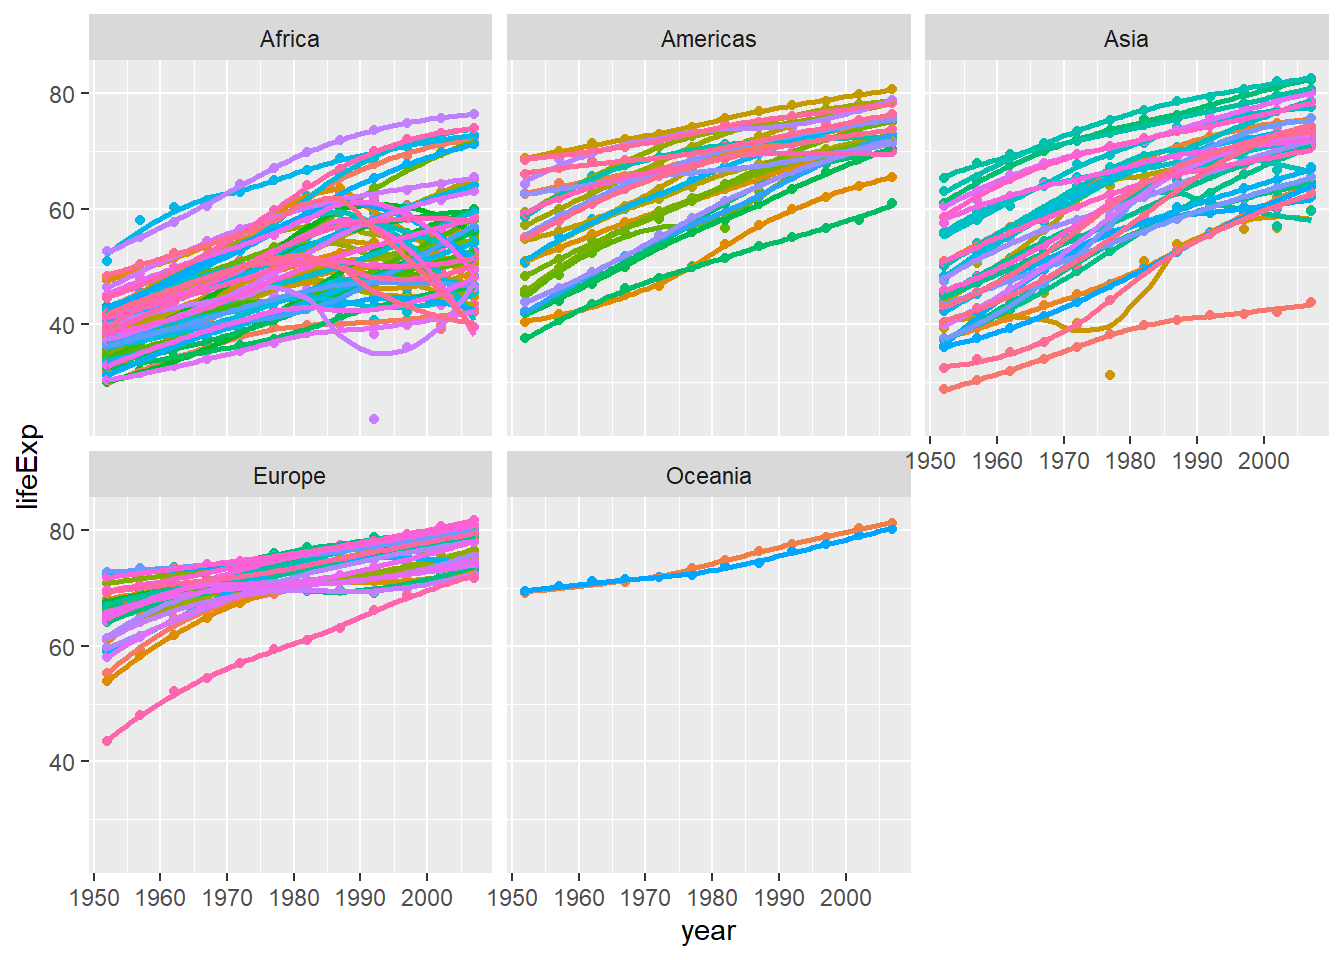
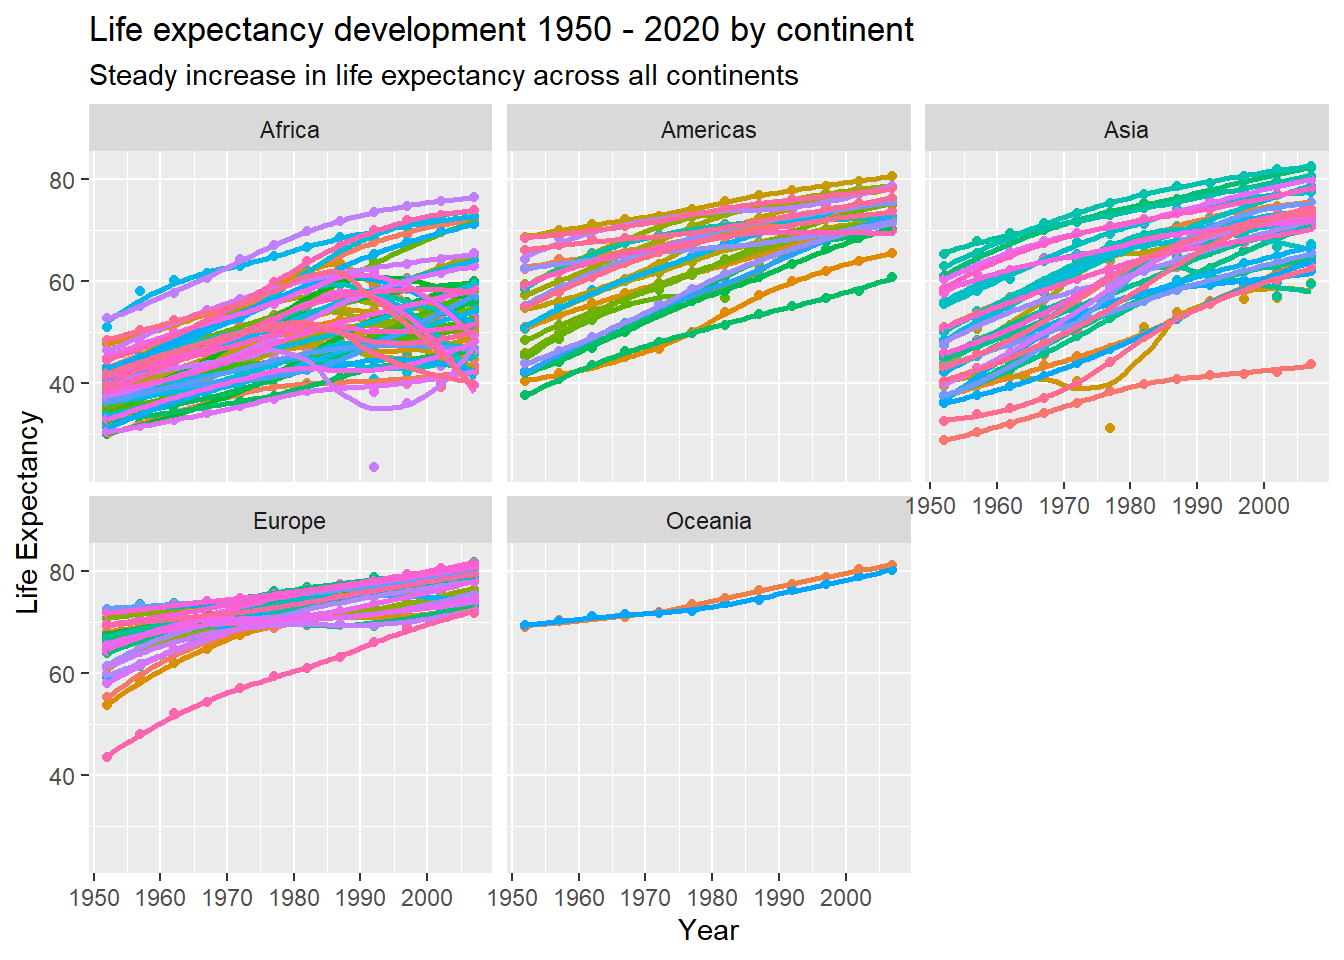
13-Oct-2020

diff --git a/public/blogs/blog15/index.html b/public/blogs/blog15/index.html
@@ -122,9 +122,9 @@ continent_data &lt;- gapminder %&gt;%
 <pre class="r"><code>  plot2 &lt;- ggplot(data = country_data, mapping = aes(x = year, y = lifeExp))+
   geom_point() +
   geom_smooth(se = FALSE) +
-  labs(subtitle = &quot;Steady increse in life expectancy since the 1950s&quot;,
-       title = &quot;Life expectancy development in Germany 1950 - 2020&quot;,
-        sx = &quot;Year&quot;,
+  labs(title = &quot;Steady increse in life expectancy since the 1950s&quot;,
+       subtitle = &quot;Life expectancy development in Germany 1950 - 2020&quot;,
+        x = &quot;Year&quot;,
         y = &quot;Life Expectancy&quot;) +
 NULL
 
@@ -135,12 +135,20 @@ print(plot2)</code></pre>
 <pre class="r"><code>ggplot(data =  continent_data, mapping = aes(x =  year, y =  lifeExp, colour= country))+
     geom_point() + 
     geom_smooth(se = FALSE) +
+    labs(title = &quot;Life expectancy development in EUrope 1950 - 2020 by country&quot;,
+         subtitle = &quot;Steady increase in life expectancy across all continents&quot;,
+         x = &quot;Year&quot;,
+         y = &quot;Life Expectancy&quot;)+
     NULL</code></pre>
 <pre><code>## `geom_smooth()` using method = &#39;loess&#39; and formula &#39;y ~ x&#39;</code></pre>
 <p><img src="/blogs/blog15_files/figure-html/lifeExp_one_continent-1.png" width="672" /></p>
 <pre class="r"><code> ggplot(data = gapminder , mapping = aes(x = year  , y =  lifeExp, colour= country))+
     geom_point() + 
     geom_smooth(se = FALSE) +
+    labs(title = &quot;Life expectancy development 1950 - 2020 by continent&quot;,
+         subtitle = &quot;Steady increase in life expectancy across all continents&quot;,
+         x = &quot;Year&quot;,
+         y = &quot;Life Expectancy&quot;)+
     facet_wrap(~continent) +
     theme(legend.position=&quot;none&quot;) + 
     NULL</code></pre>

diff --git a/content/blogs/blog15.html b/content/blogs/blog15.html
@@ -46,9 +46,9 @@ continent_data &lt;- gapminder %&gt;%
 <pre class="r"><code>  plot2 &lt;- ggplot(data = country_data, mapping = aes(x = year, y = lifeExp))+
   geom_point() +
   geom_smooth(se = FALSE) +
-  labs(subtitle = &quot;Steady increse in life expectancy since the 1950s&quot;,
-       title = &quot;Life expectancy development in Germany 1950 - 2020&quot;,
-        sx = &quot;Year&quot;,
+  labs(title = &quot;Steady increse in life expectancy since the 1950s&quot;,
+       subtitle = &quot;Life expectancy development in Germany 1950 - 2020&quot;,
+        x = &quot;Year&quot;,
         y = &quot;Life Expectancy&quot;) +
 NULL
 
@@ -59,12 +59,20 @@ print(plot2)</code></pre>
 <pre class="r"><code>ggplot(data =  continent_data, mapping = aes(x =  year, y =  lifeExp, colour= country))+
     geom_point() + 
     geom_smooth(se = FALSE) +
+    labs(title = &quot;Life expectancy development in EUrope 1950 - 2020 by country&quot;,
+         subtitle = &quot;Steady increase in life expectancy across all continents&quot;,
+         x = &quot;Year&quot;,
+         y = &quot;Life Expectancy&quot;)+
     NULL</code></pre>
 <pre><code>## `geom_smooth()` using method = &#39;loess&#39; and formula &#39;y ~ x&#39;</code></pre>
 <p><img src="/blogs/blog15_files/figure-html/lifeExp_one_continent-1.png" width="672" /></p>
 <pre class="r"><code> ggplot(data = gapminder , mapping = aes(x = year  , y =  lifeExp, colour= country))+
     geom_point() + 
     geom_smooth(se = FALSE) +
+    labs(title = &quot;Life expectancy development 1950 - 2020 by continent&quot;,
+         subtitle = &quot;Steady increase in life expectancy across all continents&quot;,
+         x = &quot;Year&quot;,
+         y = &quot;Life Expectancy&quot;)+
     facet_wrap(~continent) +
     theme(legend.position=&quot;none&quot;) + 
     NULL</code></pre>
